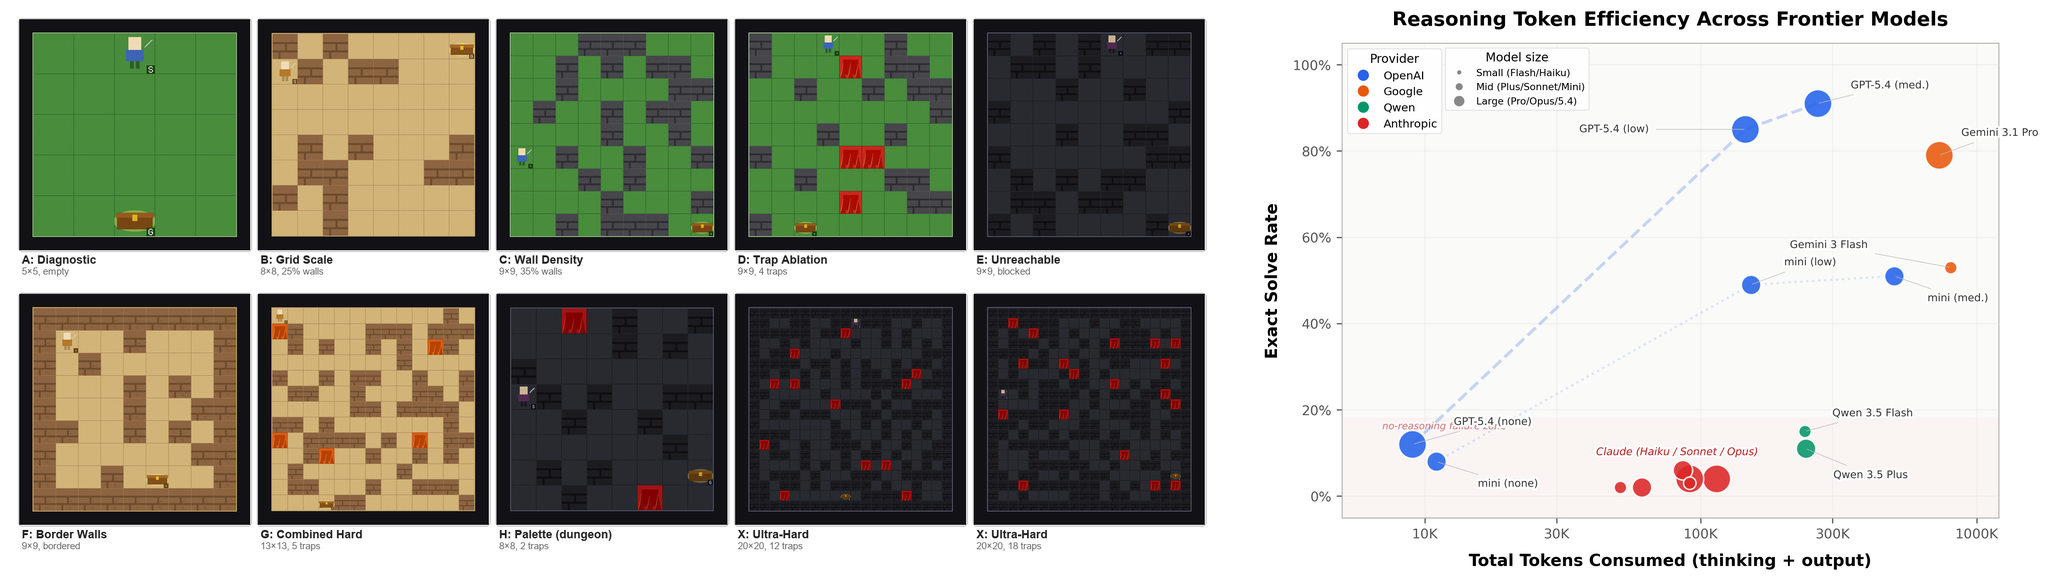
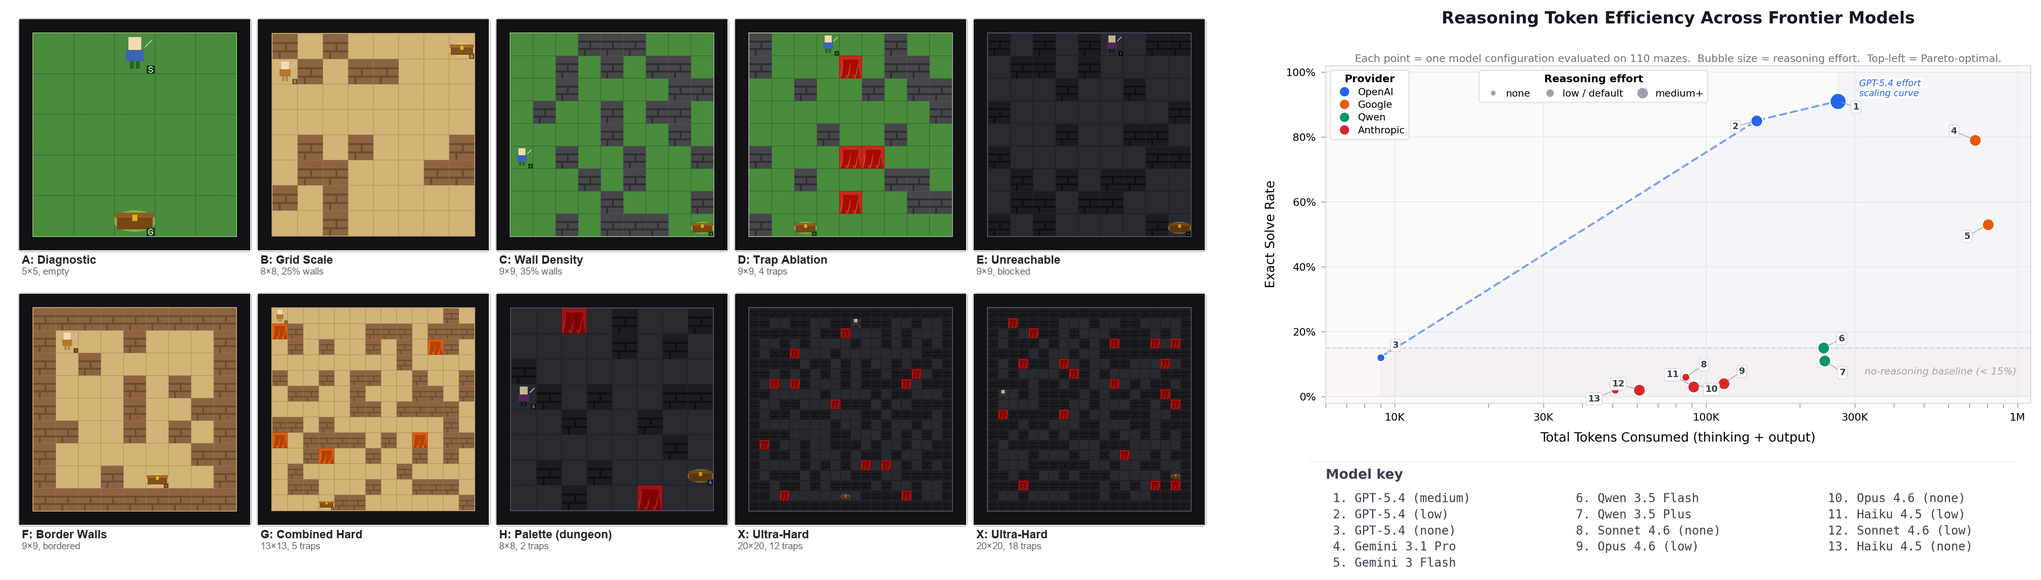
Update hero figure with cleaner scatter plot
Replaces the efficiency scatter with a redesigned version that uses
numbered IDs + a compact key, encodes reasoning effort via bubble size,
adds a Pareto shading overlay, and removes overlapping text labels.

diff --git a/scripts/render_acl_scatter_v2.py b/scripts/render_acl_scatter_v2.py
@@ -1,0 +1,263 @@
+"""Improved reasoning token efficiency scatter plot for the paper/blog."""
+
+from __future__ import annotations
+
+from pathlib import Path
+
+import matplotlib.pyplot as plt
+import matplotlib.patheffects as pe
+from matplotlib.lines import Line2D
+from matplotlib.ticker import FuncFormatter
+import numpy as np
+
+ROOT = Path(__file__).resolve().parents[1]
+ASSETS = ROOT / "assets"
+OUT_PATH = ASSETS / "acl_workshop_reasoning_token_efficiency_scatter_v2.png"
+
+# ── colours ──────────────────────────────────────────────────────────
+PROVIDER_COLORS = {
+    "OpenAI":    "#2563eb",
+    "Google":    "#ea580c",
+    "Qwen":      "#059669",
+    "Anthropic": "#dc2626",
+}
+
+# ── reasoning-effort → bubble area ──────────────────────────────────
+EFFORT_AREA = {
+    "none":    30,
+    "low":     65,
+    "default": 65,
+    "medium":  120,
+    "high":    160,
+}
+
+# ── data ─────────────────────────────────────────────────────────────
+DATA = [
+    {"id":  1, "label": "GPT-5.4",         "effort": "medium",  "solved": 91, "tokens_k": 265, "provider": "OpenAI"},
+    {"id":  2, "label": "GPT-5.4",         "effort": "low",     "solved": 85, "tokens_k": 145, "provider": "OpenAI"},
+    {"id":  3, "label": "GPT-5.4",         "effort": "none",    "solved": 12, "tokens_k":   9, "provider": "OpenAI"},
+    {"id":  4, "label": "Gemini 3.1 Pro",  "effort": "default", "solved": 79, "tokens_k": 731, "provider": "Google"},
+    {"id":  5, "label": "Gemini 3 Flash",  "effort": "default", "solved": 53, "tokens_k": 804, "provider": "Google"},
+    {"id":  6, "label": "Qwen 3.5 Flash",  "effort": "default", "solved": 15, "tokens_k": 238, "provider": "Qwen"},
+    {"id":  7, "label": "Qwen 3.5 Plus",   "effort": "default", "solved": 11, "tokens_k": 240, "provider": "Qwen"},
+    {"id":  8, "label": "Sonnet 4.6",      "effort": "none",    "solved":  6, "tokens_k":  86, "provider": "Anthropic"},
+    {"id":  9, "label": "Opus 4.6",        "effort": "low",     "solved":  4, "tokens_k": 114, "provider": "Anthropic"},
+    {"id": 10, "label": "Opus 4.6",        "effort": "none",    "solved":  4, "tokens_k":  91, "provider": "Anthropic"},
+    {"id": 11, "label": "Haiku 4.5",       "effort": "low",     "solved":  3, "tokens_k":  91, "provider": "Anthropic"},
+    {"id": 12, "label": "Sonnet 4.6",      "effort": "low",     "solved":  2, "tokens_k":  61, "provider": "Anthropic"},
+    {"id": 13, "label": "Haiku 4.5",       "effort": "none",    "solved":  2, "tokens_k":  51, "provider": "Anthropic"},
+]
+
+# ── numbered-label offsets (dx, dy in points) ───────────────────────
+OFFSETS = {
+    1:  ( 12,  -4),
+    2:  (-14,  -4),
+    3:  ( 10,   8),
+    4:  (-14,   6),
+    5:  (-14,  -8),
+    6:  ( 12,   6),
+    7:  ( 12,  -8),
+    8:  ( 12,   8),
+    9:  ( 12,   8),
+    10: ( 12,  -4),
+    11: (-14,   8),
+    12: (-14,   4),
+    13: (-14,  -6),
+}
+
+
+def fmt_tokens(value: float, _: float) -> str:
+    if value >= 1000:
+        return f"{value / 1000:.0f}M"
+    return f"{int(value)}K"
+
+
+def build_plot() -> None:
+    plt.rcParams.update({
+        "font.family": "DejaVu Sans",
+        "font.size": 7.5,
+        "axes.titlesize": 10,
+        "axes.labelsize": 8.5,
+        "xtick.labelsize": 7,
+        "ytick.labelsize": 7,
+    })
+
+    fig, ax = plt.subplots(figsize=(7.5, 5.2), dpi=300)
+    fig.patch.set_facecolor("white")
+    ax.set_facecolor("#fafafa")
+
+    # ── no-reasoning zone (subtle) ──────────────────────────────────
+    ax.axhline(y=15, color="#d4d4d4", linewidth=0.8, linestyle="--", zorder=1)
+    ax.fill_between([1, 2000], 0, 15, color="#fef2f2", alpha=0.5, zorder=0)
+    ax.text(
+        0.98, 7.5,
+        "no-reasoning baseline (< 15%)",
+        transform=ax.get_yaxis_transform(),
+        color="#a3a3a3", fontsize=6.5, fontstyle="italic",
+        ha="right", va="center",
+    )
+
+    # ── GPT-5.4 scaling curve ───────────────────────────────────────
+    gpt = sorted(
+        [p for p in DATA if p["label"] == "GPT-5.4"],
+        key=lambda p: p["tokens_k"],
+    )
+    halo = [pe.withStroke(linewidth=3, foreground="white")]
+    ax.plot(
+        [p["tokens_k"] for p in gpt],
+        [p["solved"] for p in gpt],
+        color=PROVIDER_COLORS["OpenAI"],
+        linestyle="--", linewidth=1.4, alpha=0.6, zorder=2,
+        path_effects=halo,
+    )
+    # curve label
+    ax.text(
+        310, 92,
+        "GPT-5.4 effort\nscaling curve",
+        color=PROVIDER_COLORS["OpenAI"], fontsize=6, fontstyle="italic",
+        ha="left", va="bottom", path_effects=halo, linespacing=1.2,
+    )
+
+    # ── Pareto frontier shading ─────────────────────────────────────
+    # points on the Pareto front: GPT-5.4 none → low → medium
+    pareto_x = [p["tokens_k"] for p in gpt]
+    pareto_y = [p["solved"] for p in gpt]
+    # extend to axes for shading
+    ax.fill_betweenx(
+        [0, pareto_y[0], pareto_y[1], pareto_y[2], 100],
+        [pareto_x[0], pareto_x[0], pareto_x[1], pareto_x[2], pareto_x[2]],
+        [2000, 2000, 2000, 2000, 2000],
+        color=PROVIDER_COLORS["OpenAI"], alpha=0.03, zorder=0,
+    )
+
+    # ── scatter all points ──────────────────────────────────────────
+    for point in DATA:
+        color = PROVIDER_COLORS[point["provider"]]
+        area = EFFORT_AREA[point["effort"]]
+        ax.scatter(
+            point["tokens_k"], point["solved"],
+            s=area, marker="o",
+            c=color, edgecolors="white", linewidths=0.9,
+            zorder=4,
+        )
+
+    # ── numbered ID labels ──────────────────────────────────────────
+    for point in DATA:
+        dx, dy = OFFSETS[point["id"]]
+        ax.annotate(
+            str(point["id"]),
+            (point["tokens_k"], point["solved"]),
+            xytext=(dx, dy), textcoords="offset points",
+            fontsize=6, fontweight="bold", color="#374151",
+            ha="center", va="center", zorder=5,
+            bbox=dict(
+                boxstyle="round,pad=0.2",
+                facecolor="white", edgecolor="#d1d5db",
+                linewidth=0.5, alpha=0.92,
+            ),
+            arrowprops=dict(
+                arrowstyle="-",
+                color="#9ca3af",
+                linewidth=0.5,
+                shrinkA=0, shrinkB=3,
+            ),
+        )
+
+    # (Claude cluster annotation removed)
+
+    # ── axes ────────────────────────────────────────────────────────
+    ax.set_xscale("log")
+    ax.set_xlim(6, 1100)
+    ax.set_ylim(-2, 102)
+    ax.set_xticks([10, 30, 100, 300, 1000])
+    ax.xaxis.set_major_formatter(FuncFormatter(fmt_tokens))
+    ax.set_yticks(range(0, 101, 20))
+    ax.yaxis.set_major_formatter(FuncFormatter(lambda v, _: f"{int(v)}%"))
+
+    ax.set_xlabel("Total Tokens Consumed (thinking + output)", labelpad=6)
+    ax.set_ylabel("Exact Solve Rate", labelpad=6)
+
+    ax.grid(True, which="major", color="#e5e7eb", linewidth=0.5, zorder=0)
+    ax.tick_params(axis="both", which="both", length=3, width=0.6, color="#9ca3af")
+    for spine in ax.spines.values():
+        spine.set_linewidth(0.6)
+        spine.set_color("#d1d5db")
+
+    # ── title + subtitle ────────────────────────────────────────────
+    ax.set_title(
+        "Reasoning Token Efficiency Across Frontier Models",
+        fontsize=11, fontweight="bold", color="#111827",
+        pad=28, loc="center",
+    )
+    fig.text(
+        0.535, 0.92,
+        "Each point = one model configuration evaluated on 110 mazes.  Bubble size = reasoning effort.  Top-left = Pareto-optimal.",
+        fontsize=7, color="#6b7280", ha="center", va="top",
+    )
+
+    # ── provider legend ─────────────────────────────────────────────
+    provider_handles = [
+        Line2D([0], [0], marker="o", color="none",
+               markerfacecolor=c, markeredgecolor="white",
+               markeredgewidth=0.8, markersize=7, label=name)
+        for name, c in PROVIDER_COLORS.items()
+    ]
+    leg1 = ax.legend(
+        handles=provider_handles, loc="upper left",
+        frameon=True, framealpha=0.95, facecolor="white",
+        edgecolor="#e5e7eb", fontsize=6.5,
+        borderpad=0.4, handletextpad=0.4, labelspacing=0.35,
+        title="Provider", title_fontproperties={"size": 7, "weight": "bold"},
+    )
+    ax.add_artist(leg1)
+
+    # ── effort legend ───────────────────────────────────────────────
+    effort_handles = [
+        Line2D([0], [0], marker="o", color="none",
+               markerfacecolor="#9ca3af", markeredgecolor="white",
+               markeredgewidth=0.8, markersize=sz, label=name)
+        for name, sz in [("none", 4), ("low / default", 5.8), ("medium+", 7.8)]
+    ]
+    leg2 = ax.legend(
+        handles=effort_handles, loc="upper center",
+        bbox_to_anchor=(0.38, 1.0),
+        frameon=True, framealpha=0.95, facecolor="white",
+        edgecolor="#e5e7eb", fontsize=6.5, ncol=3,
+        borderpad=0.4, handletextpad=0.3, columnspacing=1.0,
+        title="Reasoning effort", title_fontproperties={"size": 7, "weight": "bold"},
+    )
+    ax.add_artist(leg1)  # re-add so both show
+
+    # ── model key (below plot) ──────────────────────────────────────
+    fig.subplots_adjust(left=0.10, right=0.97, bottom=0.30, top=0.90)
+
+    key_lines = []
+    for p in DATA:
+        eff = p["effort"]
+        eff_str = f" ({eff})" if eff != "default" else ""
+        key_lines.append(f"{p['id']:>2}. {p['label']}{eff_str}")
+
+    col1 = "\n".join(key_lines[:5])
+    col2 = "\n".join(key_lines[5:9])
+    col3 = "\n".join(key_lines[9:])
+
+    kw = dict(fontsize=8, fontfamily="monospace", color="#374151",
+              va="top", linespacing=1.45)
+    fig.text(0.10,  0.14, col1, **kw)
+    fig.text(0.40, 0.14, col2, **kw)
+    fig.text(0.72, 0.14, col3, **kw)
+    fig.text(0.10, 0.16, "Model key", fontsize=9, fontweight="bold",
+             color="#374151", va="bottom")
+
+    # thin separator line between plot and key
+    fig.patches.append(plt.Rectangle(
+        (0.08, 0.195), 0.87, 0.0015,
+        transform=fig.transFigure, facecolor="#e5e7eb", zorder=10,
+    ))
+    fig.savefig(OUT_PATH, dpi=300, bbox_inches="tight", facecolor="white")
+    plt.close(fig)
+    print(f"Saved: {OUT_PATH}")
+
+
+if __name__ == "__main__":
+    build_plot()
